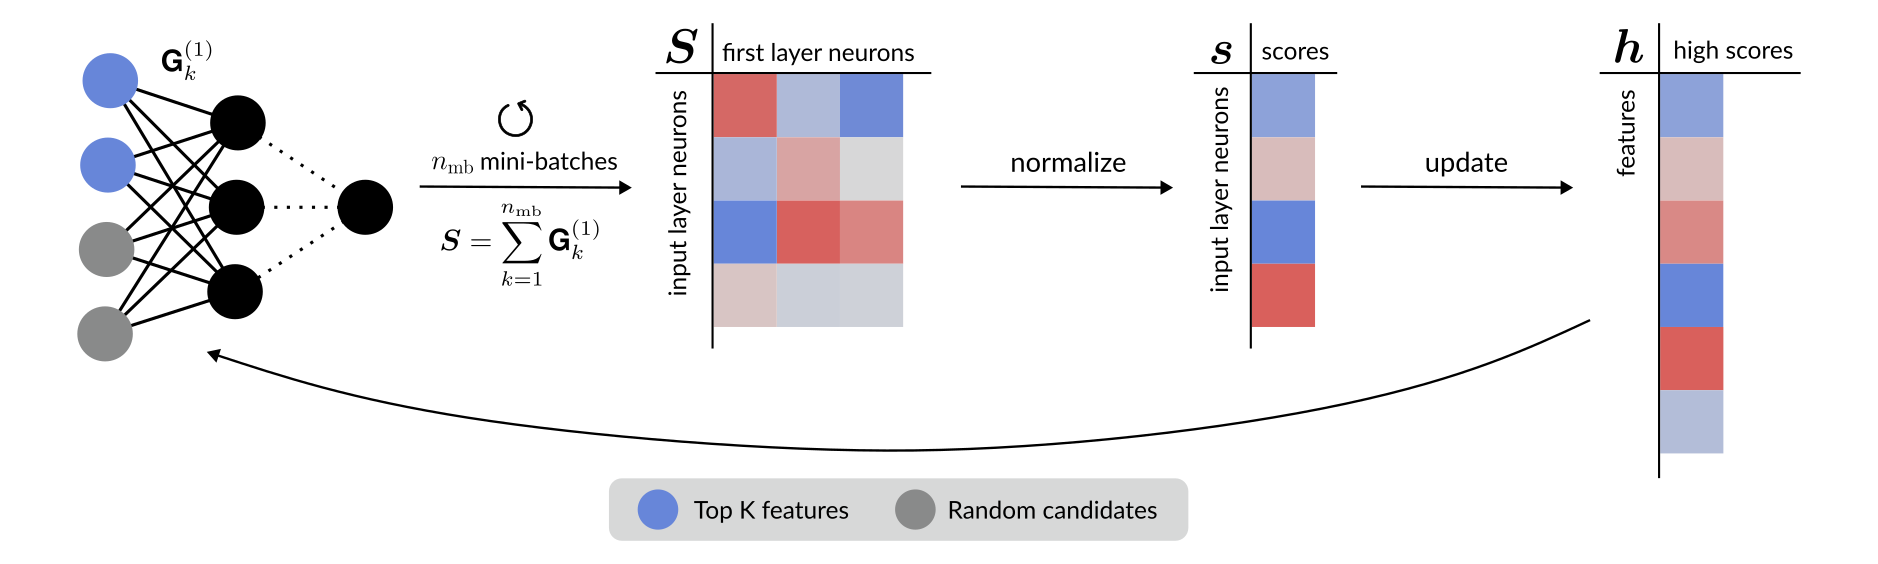
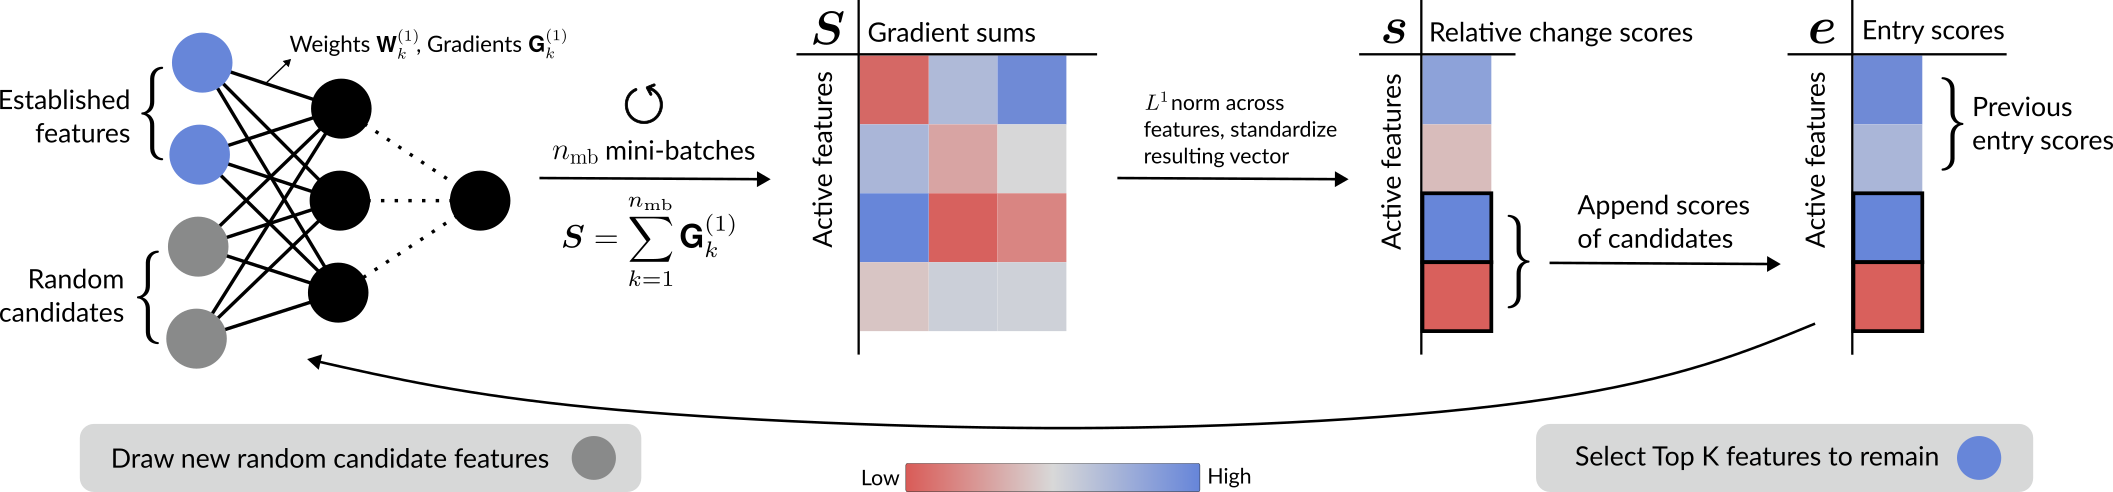
renamed approach, updated figure

diff --git a/experiments/entryprune_models.py b/experiments/entryprune_models.py
@@ -1,4 +1,4 @@
-import relchanet
+import entryprune
 
 from sklearn.model_selection import train_test_split
 
@@ -25,11 +25,11 @@ def fit_wrapper(stopping,stopping_hyperpar,perc, switch):
         elif stopping == "validation":
             X_train, X_val, y_train, y_val = train_test_split(X, y, test_size=0.2, random_state=42)
             args['patience'] = stopping_hyperpar
-            re = relchanet.rcn_class(X=X_train, y=y_train,relevant=n_vars_selected, X_val = X_val, y_val = y_val,**args)
+            re = entryprune.ep_class(X=X_train, y=y_train,relevant=n_vars_selected, X_val = X_val, y_val = y_val,**args)
             args['patience'] = None
             args['n_updates'] = re.best_update
 
-        re = relchanet.rcn_class(X=X, y=y, relevant=n_vars_selected, **args)
+        re = entryprune.ep_class(X=X, y=y, relevant=n_vars_selected, **args)
         return re.ident_final
     
     return run
@@ -54,12 +54,12 @@ def fit_flex_wrapper(perc, switch):
         }
     
         X_train, X_val, y_train, y_val = train_test_split(X, y, test_size=0.2, random_state=42)
-        re = relchanet.rcn_class(X=X_train, y=y_train, X_val= X_val, y_val = y_val,relevant=n_vars_selected, **args)
+        re = entryprune.ep_class(X=X_train, y=y_train, X_val= X_val, y_val = y_val,relevant=n_vars_selected, **args)
         loss, n_updates,final_netsize = re.best_val_loss, re.best_update, len(re.history[re.lowest_loss_update]['selected'])
         args['patience'] = None
         args['n_updates'] = n_updates
         args['final_netsize'] = final_netsize
-        re = relchanet.rcn_class(X=X, y=y,relevant=n_vars_selected, **args)
+        re = entryprune.ep_class(X=X, y=y,relevant=n_vars_selected, **args)
 
         return re.ident_final
 

diff --git a/entryprune/code.py b/entryprune/code.py
@@ -5,7 +5,7 @@ import torch.nn as nn
 import numpy as np
 
 
-class BaseRCN:
+class BaseEP:
     def __init__(self, relevant, epochs=200, patience=None, lr=1e-3, n_hidden=10, shrink=False, batch_size=None, patience_ident=None,switch_interval = 1,n_updates = None,final_netsize = None, method = "gradients",candidate_perc = None):
 
         self.relevant = relevant
@@ -39,7 +39,7 @@ class BaseRCN:
 
 
     
-    def run_base_rcn(self,X,y,X_val,y_val):
+    def run_base_ep(self,X,y,X_val,y_val):
 
         ## Preparation ## 
         self.device = torch.device(f'cuda:{torch.cuda.current_device()}' if torch.cuda.is_available() else 'cpu') 
@@ -386,9 +386,9 @@ class BaseRCN:
 
 
 # TODO
-# class rcn_reg(BaseRCN):
+# class ep_reg(BaseEP):
 
-class rcn_class(BaseRCN):
+class ep_class(BaseEP):
     def __init__(self, X, y,X_val=None,y_val=None, **kwargs):
         self.n_train = X.shape[0] 
         self.n_vars = X.shape[1]
@@ -409,7 +409,7 @@ class rcn_class(BaseRCN):
         self.model = nn.Sequential(*layers)
         self.optimizer = torch.optim.Adam(self.model.parameters(), lr=self.lr)
         self.criterion = nn.CrossEntropyLoss()
-        self.run_base_rcn(X, y,X_val,y_val)
+        self.run_base_ep(X, y,X_val,y_val)
 
 
 

diff --git a/experiments/run_main.py b/experiments/run_main.py
@@ -2,7 +2,7 @@
 # results are saved in "experiments/results/main.csv"
 
 from utils import load_data
-from relchanet_models import *
+from entryprune_models import *
 
 import torch
 import numpy as np
@@ -21,11 +21,11 @@ datasets = ['coil20', 'MNIST', 'Fashion-MNIST','USPS', 'isolet', 'har', 'BASEHOC
 
 
 methods_wide = {
-    'RCN_wide': fit_wrapper(stopping = "validation", stopping_hyperpar = 100, perc = .5,switch = 5),
+    'EP_wide': fit_wrapper(stopping = "validation", stopping_hyperpar = 100, perc = .5,switch = 5),
     'flex_wide': fit_flex_wrapper(perc = .5,switch = 5),
 }
 methods_long = {
-    'RCN_long': fit_wrapper(stopping = "validation", stopping_hyperpar = 100, perc = .2,switch = 100),
+    'EP_long': fit_wrapper(stopping = "validation", stopping_hyperpar = 100, perc = .2,switch = 100),
     'flex_long': fit_flex_wrapper(perc = .2,switch = 100),
 }
 

diff --git a/setup.py b/setup.py
@@ -1,13 +1,13 @@
 from setuptools import setup
 
 setup(
-    name='relchanet',
+    name='entryprune',
     version='0.1.0',
     author='Felix Zimmer',
     author_email='felix.zimmer@mail.de',
-    description='Neural Network Feature Selection using Relative Change Scores',
-    url='https://github.com/flxzimmer/relchanet',
-    packages=['relchanet'],
+    description='EntryPrune: Neural Network Feature Selection using First Impressions',
+    url='https://github.com/flxzimmer/entryprune',
+    packages=['entryprune'],
     install_requires=[
         'torch',
         'numpy',

diff --git a/examples/basic.py b/examples/basic.py
@@ -1,5 +1,5 @@
  
-import relchanet
+import entryprune
 
 import numpy as np
 from sklearn.metrics import accuracy_score
@@ -35,7 +35,7 @@ args = {
 K = 10 
 
 # Select features
-mod = relchanet.rcn_class(X=X_train, y=y_train, relevant=K, **args)
+mod = entryprune.ep_class(X=X_train, y=y_train, relevant=K, **args)
 
 # get selected features
 selected_features = mod.ident_final

diff --git a/entryprune/__init__.py b/entryprune/__init__.py
@@ -1,0 +1,1 @@
+from .code import ep_class

diff --git a/README.md b/README.md
@@ -1,10 +1,10 @@
-# RelChaNet
+# EntryPrune
 
-An algorithm to select features in neural networks based on rotating input layer neurons. The metric used for pruning measures relative change in first layer weights across a few mini-batches. It is described in the paper "RelChaNet: Neural Network Feature Selection using Relative Change Scores" (https://arxiv.org/abs/2410.02344).
+An algorithm to select features in neural networks based on rotating input layer neurons. The metric used for pruning measures relative change in first layer weights across a few mini-batches. It is described in the paper "EntryPrune: Neural Network Feature Selection using First Impressions" (https://arxiv.org/abs/2410.02344).
 
 ![Illustration](score.png)
 
-This repository contains the code for RelChaNet in Python along with a basic usage example. 
+This repository contains the code for EntryPrune in Python along with a basic usage example. 
 For a reproduction of the experiments in the paper instructions are given in /experiments/README.md.
 
 Note: The algorithm is implemented in PyTorch and uses CUDA by default. You may encounter bugs when running it on a CPU and experimental results might not replicate exactly. 
@@ -15,14 +15,14 @@ To install the package, follow these steps:
 
 1. **Clone / Download the repository**:
    ```bash
-   git clone https://github.com/flxzimmer/relchanet.git
-   cd relchanet
+   git clone https://github.com/flxzimmer/entryprune.git
+   cd entryprune
    ```
 
 2. (optional) setup a new virtual environment, for example via
    ```bash
-   conda create --name relchanet_env python=3.12.3
-   conda activate relchanet_env
+   conda create --name entryprune_env python=3.12.3
+   conda activate entryprune_env
    ```
 
 3. **Install the package**:
